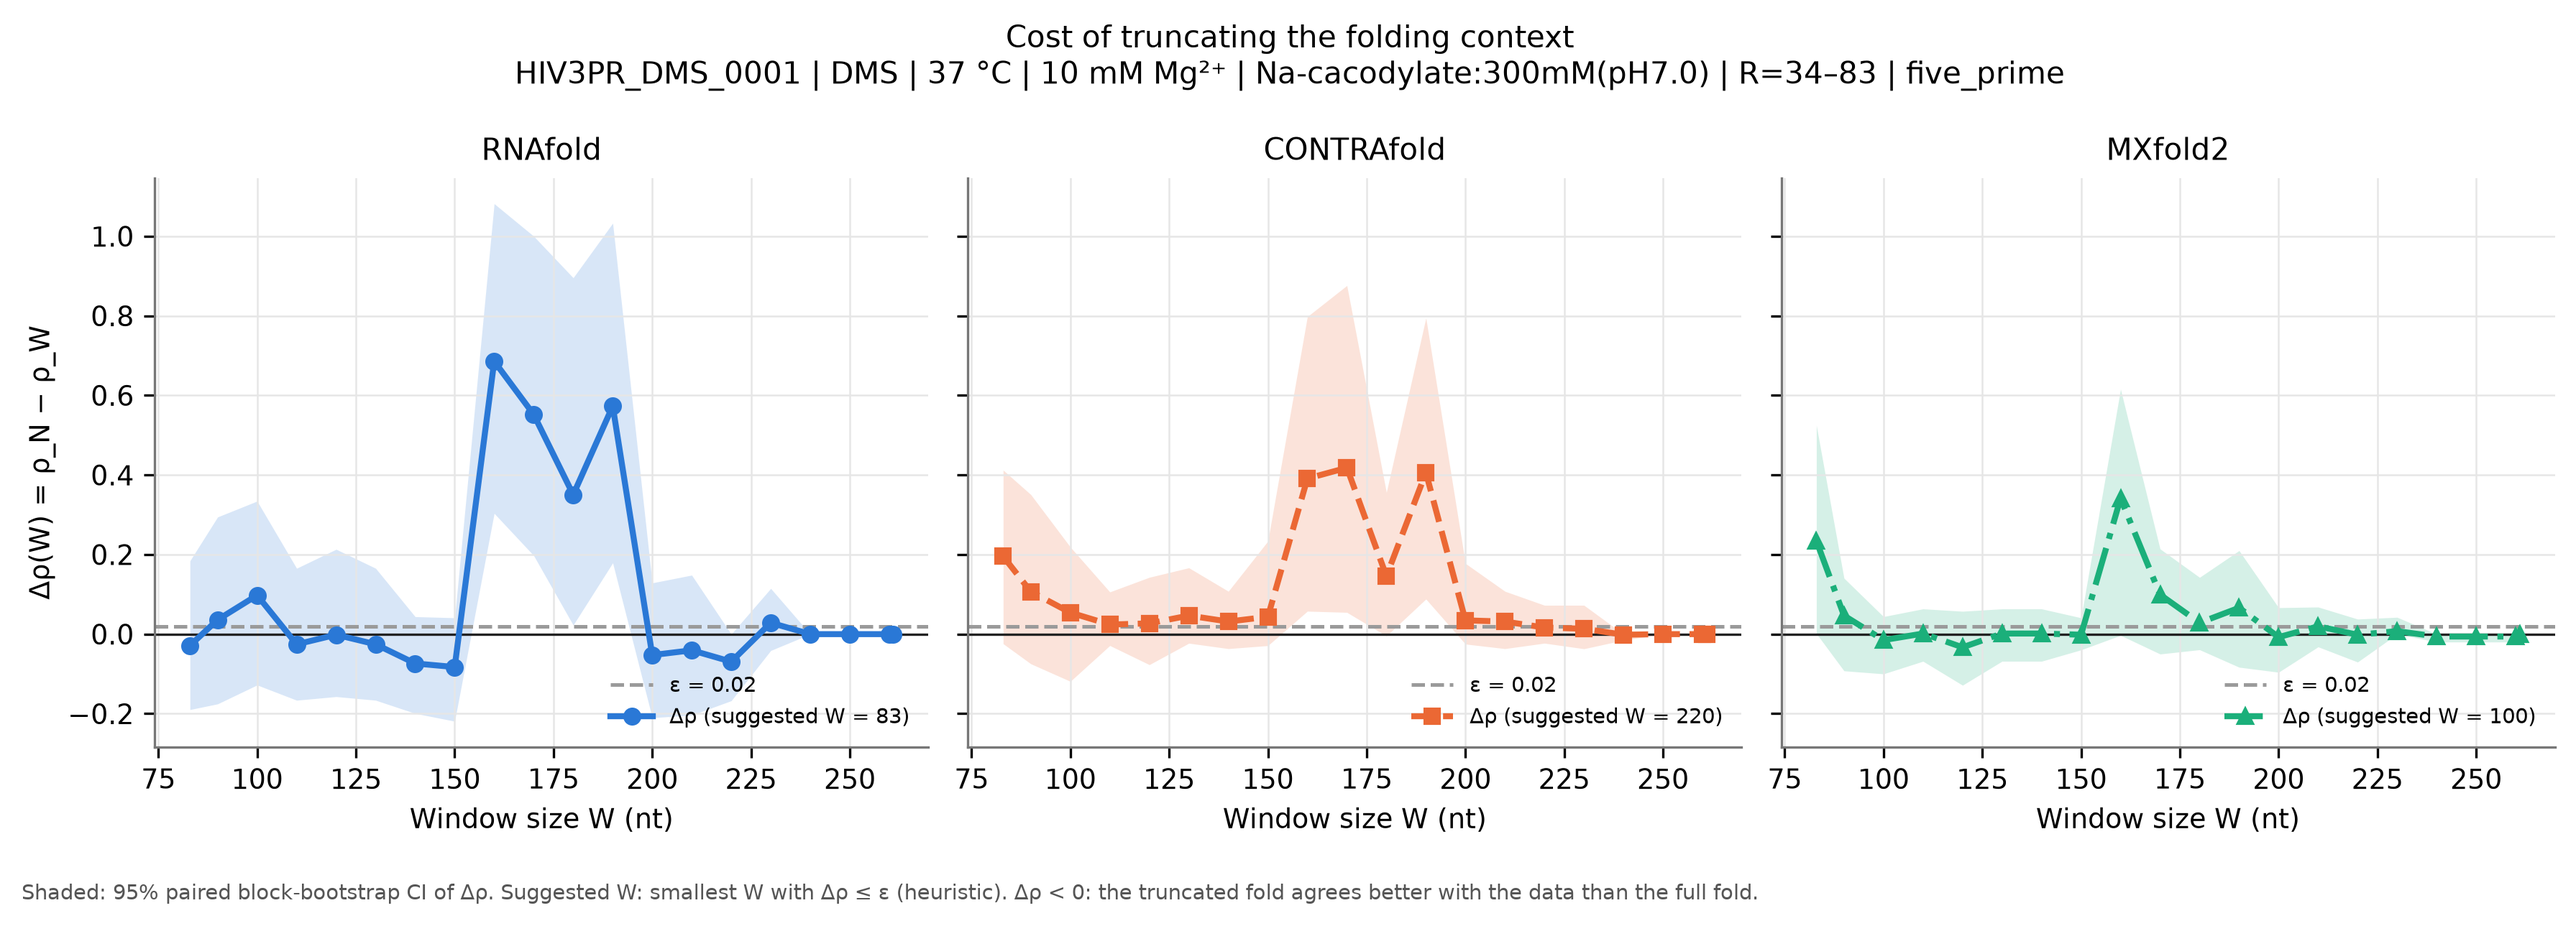
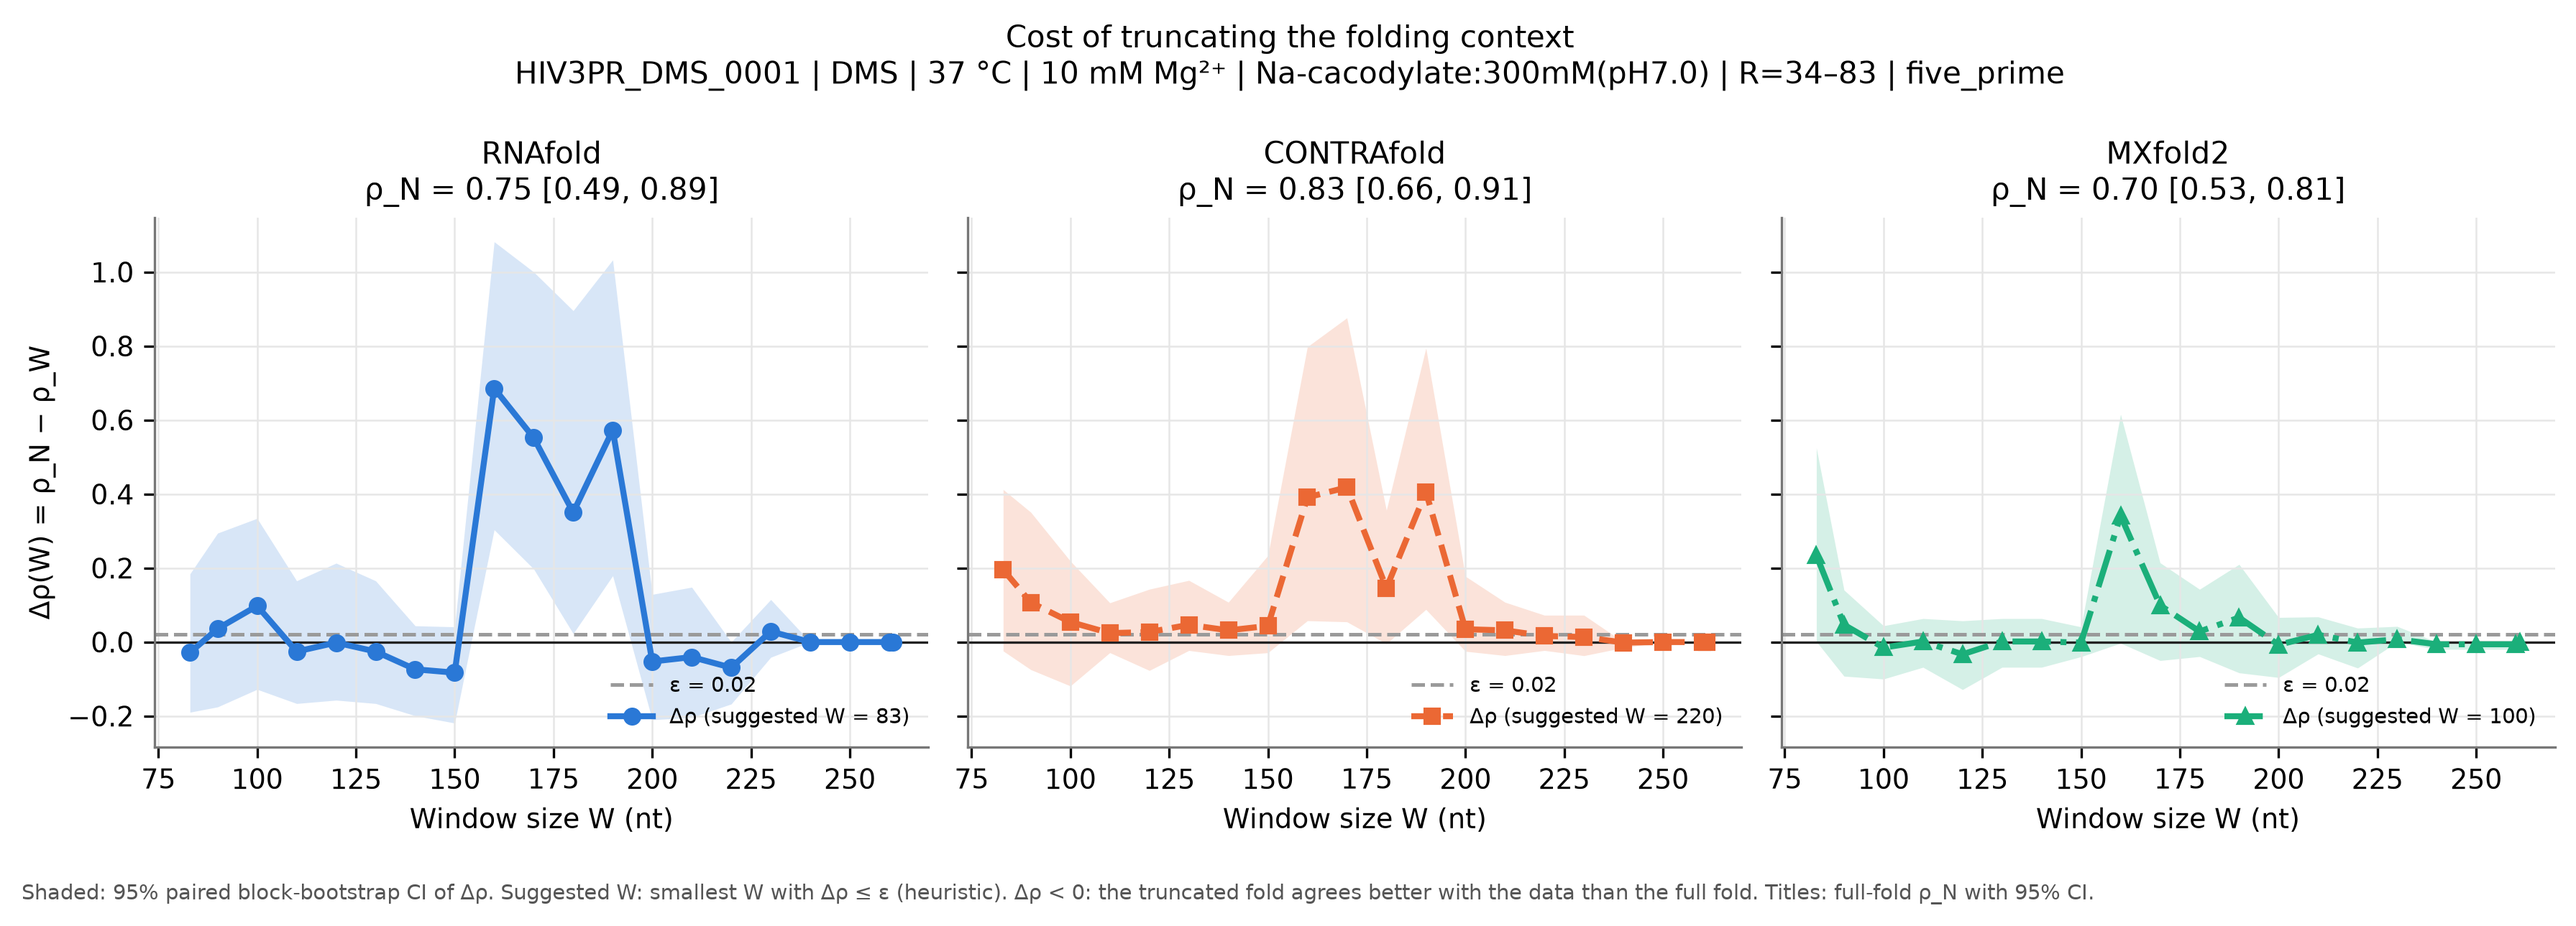
added rho

diff --git a/dmswin_plots.py b/dmswin_plots.py
@@ -96,6 +96,11 @@ def _rows(res: DatasetResult, name: str) -> dict[str, np.ndarray]:
     }
 
 
+def _rho_n_label(d: dict[str, np.ndarray]) -> str:
+    """Full-fold rho_N with its CI, for panel titles."""
+    return f"ρ_N = {d['rho_N'][0]:.2f} [{d['rho_N_ci_lo'][0]:.2f}, {d['rho_N_ci_hi'][0]:.2f}]"
+
+
 def fig_rho_vs_window(res: DatasetResult, path: Path) -> None:
     """Figure 1: rho_W vs W with CI band and rho_N reference; one panel per model."""
     names = list(res.models)
@@ -137,7 +142,7 @@ def fig_delta_rho(res: DatasetResult, path: Path) -> None:
         )
         sw = res.suggestions[name]["W_first"]
         ax.plot(d["W"], d["delta_rho"], label=f"Δρ (suggested W = {sw})", **st)
-        ax.set_title(name)
+        ax.set_title(f"{name}\n{_rho_n_label(d)}")
         ax.set_xlabel("Window size W (nt)")
         ax.legend(fontsize=7, loc="lower right")
     axes[0].set_ylabel("Δρ(W) = ρ_N − ρ_W")
@@ -147,7 +152,8 @@ def fig_delta_rho(res: DatasetResult, path: Path) -> None:
         fig,
         path,
         "Shaded: 95% paired block-bootstrap CI of Δρ. Suggested W: smallest W with Δρ ≤ ε (heuristic). "
-        "Δρ < 0: the truncated fold agrees better with the data than the full fold.",
+        "Δρ < 0: the truncated fold agrees better with the data than the full fold. "
+        "Titles: full-fold ρ_N with 95% CI.",
     )
 
 
@@ -327,9 +333,9 @@ DATASET_COLORS = ["#2a78d6", "#eb6834", "#1baf7a", "#eda100", "#e87ba4", "#00830
 DATASET_MARKERS = ["o", "s", "^", "D", "v", "P", "X", "h"]
 
 
-def _grid(n_panels: int, ncols: int = 3) -> tuple[plt.Figure, np.ndarray]:
+def _grid(n_panels: int, ncols: int = 3, row_height: float = 3.3) -> tuple[plt.Figure, np.ndarray]:
     nrows = -(-n_panels // ncols)
-    fig, axes = plt.subplots(nrows, ncols, figsize=(4.2 * ncols, 3.3 * nrows), squeeze=False)
+    fig, axes = plt.subplots(nrows, ncols, figsize=(4.2 * ncols, row_height * nrows), squeeze=False)
     for ax in axes.flat[n_panels:]:
         ax.set_visible(False)
     return fig, axes
@@ -352,10 +358,11 @@ def _short(res: DatasetResult) -> str:
 
 def overview_delta_rho(results: list[DatasetResult], path: Path) -> None:
     """Delta rho vs W, one panel per dataset, all models."""
-    fig, axes = _grid(len(results))
+    fig, axes = _grid(len(results), row_height=3.9)
     for ax, res in zip(axes.flat, results, strict=False):
         ax.axhline(0, color=INK, lw=0.8)
         ax.axhline(res.epsilon, color=MUTED, ls="--", lw=1)
+        rho_lines = []
         for k, name in enumerate(res.models):
             d = _rows(res, name)
             st = _style(k)
@@ -363,7 +370,8 @@ def overview_delta_rho(results: list[DatasetResult], path: Path) -> None:
                 d["W"], d["delta_rho_ci_lo"], d["delta_rho_ci_hi"], color=st["color"], alpha=0.10, lw=0
             )
             ax.plot(d["W"], d["delta_rho"], label=name, **{**st, "markersize": 3.5, "linewidth": 1.6})
-        ax.set_title(_short(res), fontsize=8)
+            rho_lines.append(f"{name}: {_rho_n_label(d)}")
+        ax.set_title(_short(res) + "\n" + "\n".join(rho_lines), fontsize=8)
         ax.set_xlabel("Window size W (nt)")
         ax.set_ylabel("Δρ = ρ_N − ρ_W")
     axes.flat[0].legend(fontsize=7, loc="upper right")
@@ -373,7 +381,8 @@ def overview_delta_rho(results: list[DatasetResult], path: Path) -> None:
         fig,
         path,
         f"Bands: 95% paired block-bootstrap CI. Dashed grey: ε = {results[0].epsilon:g}. "
-        "Δρ > 0: the truncated fold agrees less with the probing data than the full fold.",
+        "Δρ > 0: the truncated fold agrees less with the probing data than the full fold. "
+        "Titles: each model's full-fold ρ_N with 95% CI.",
     )
 
 
